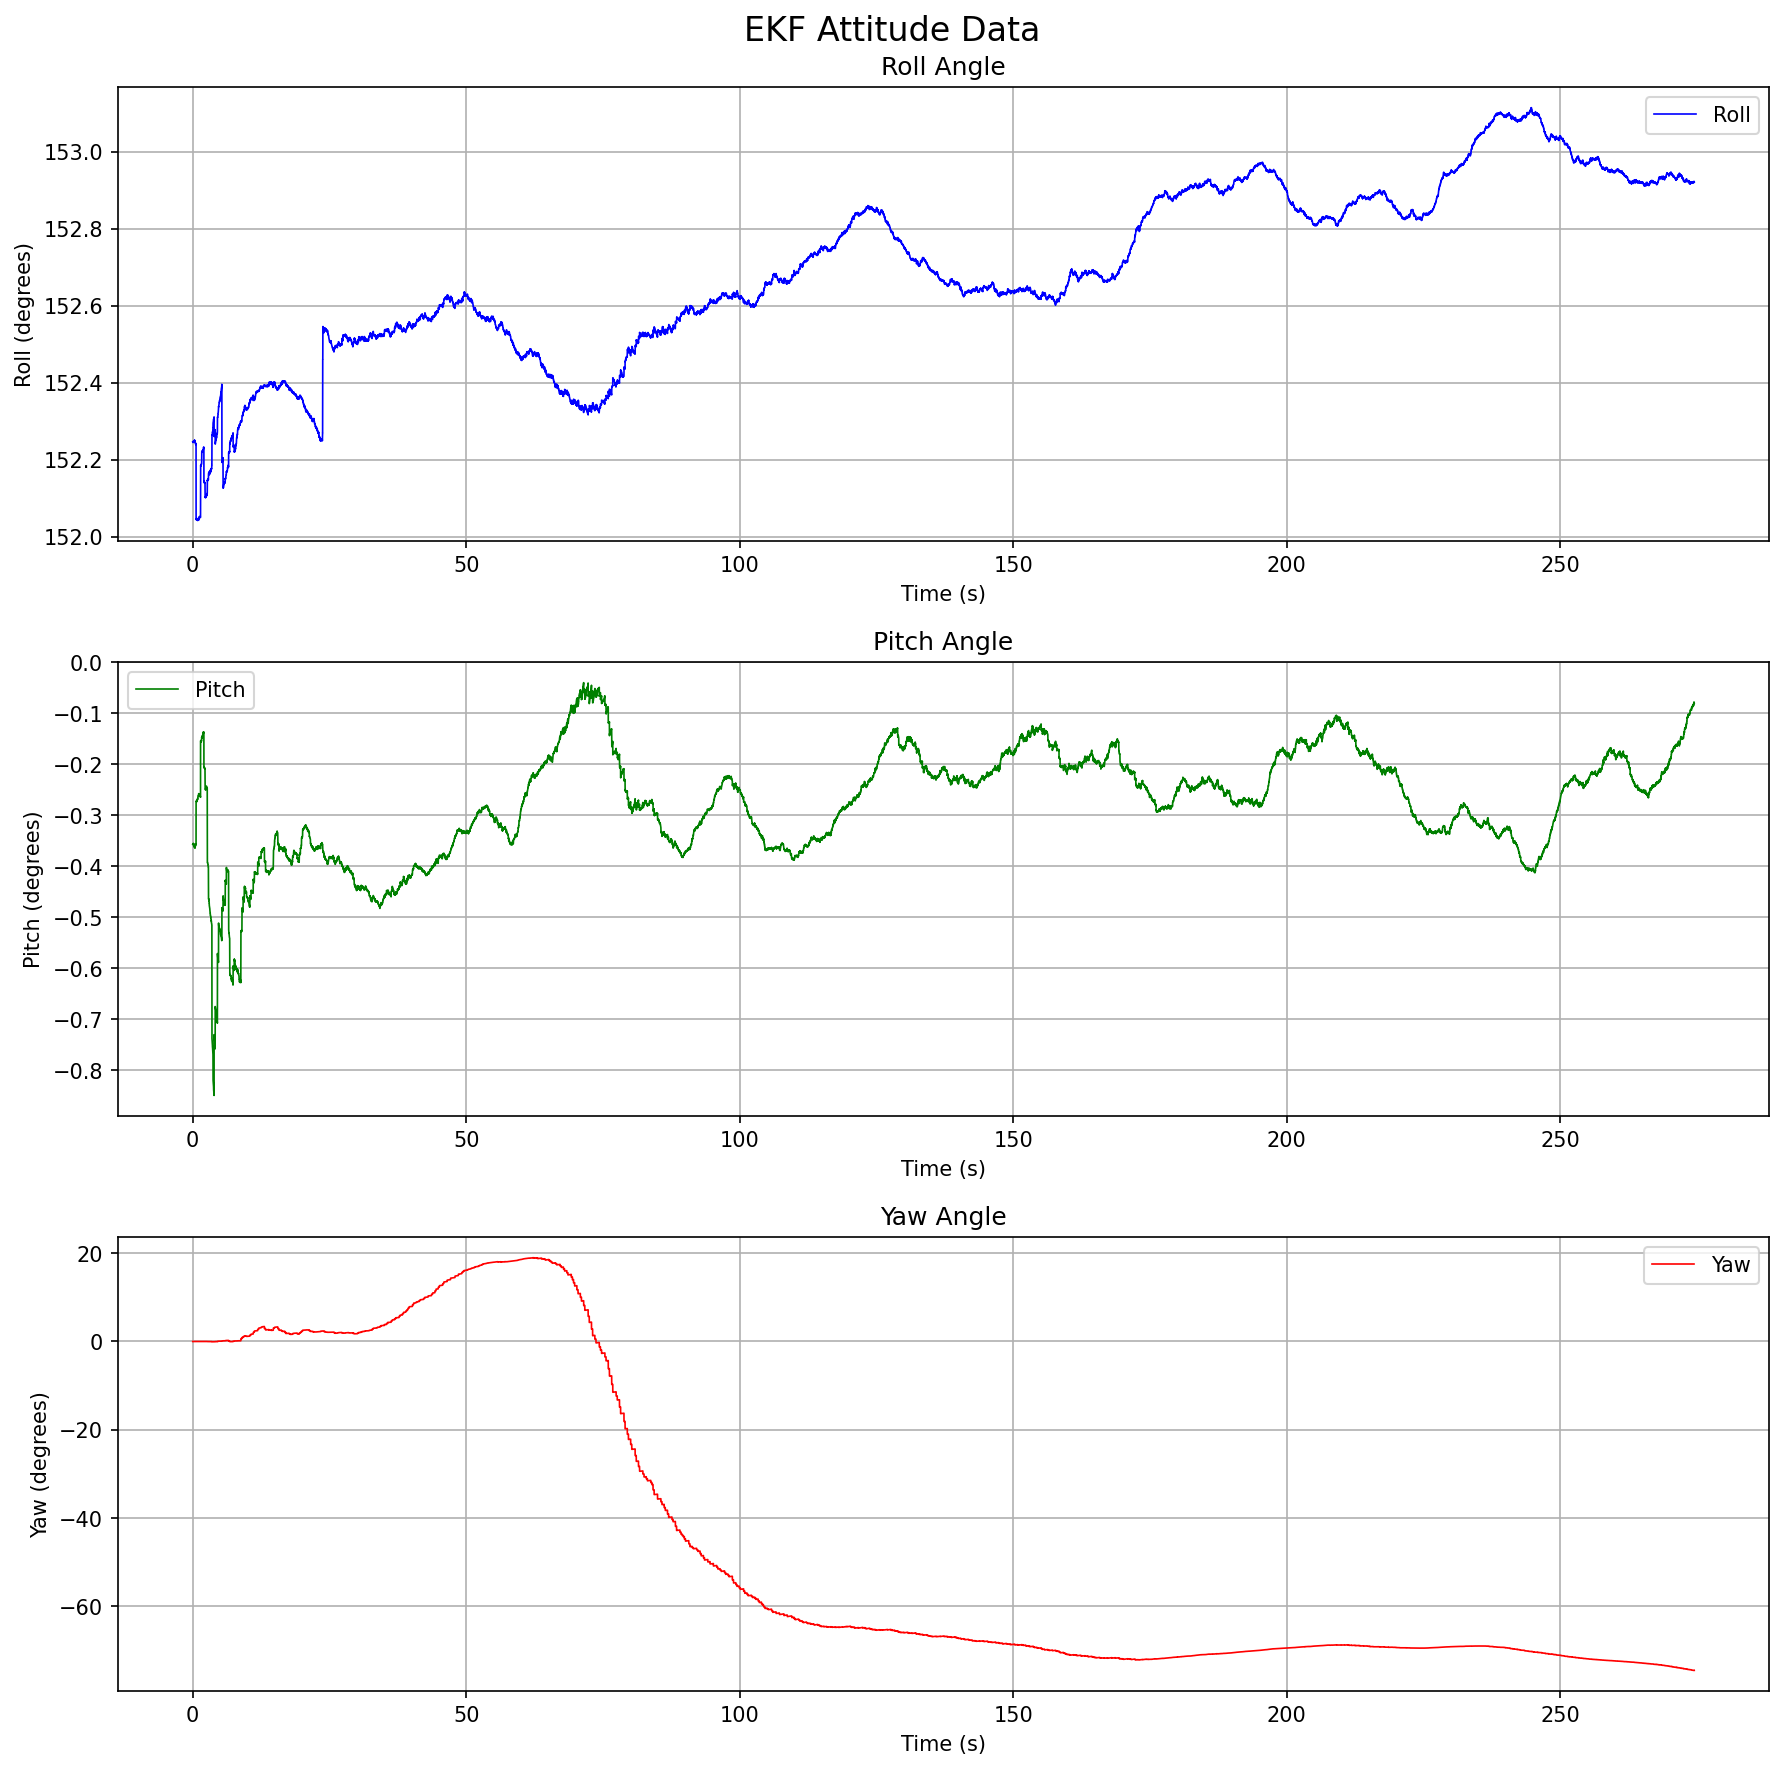
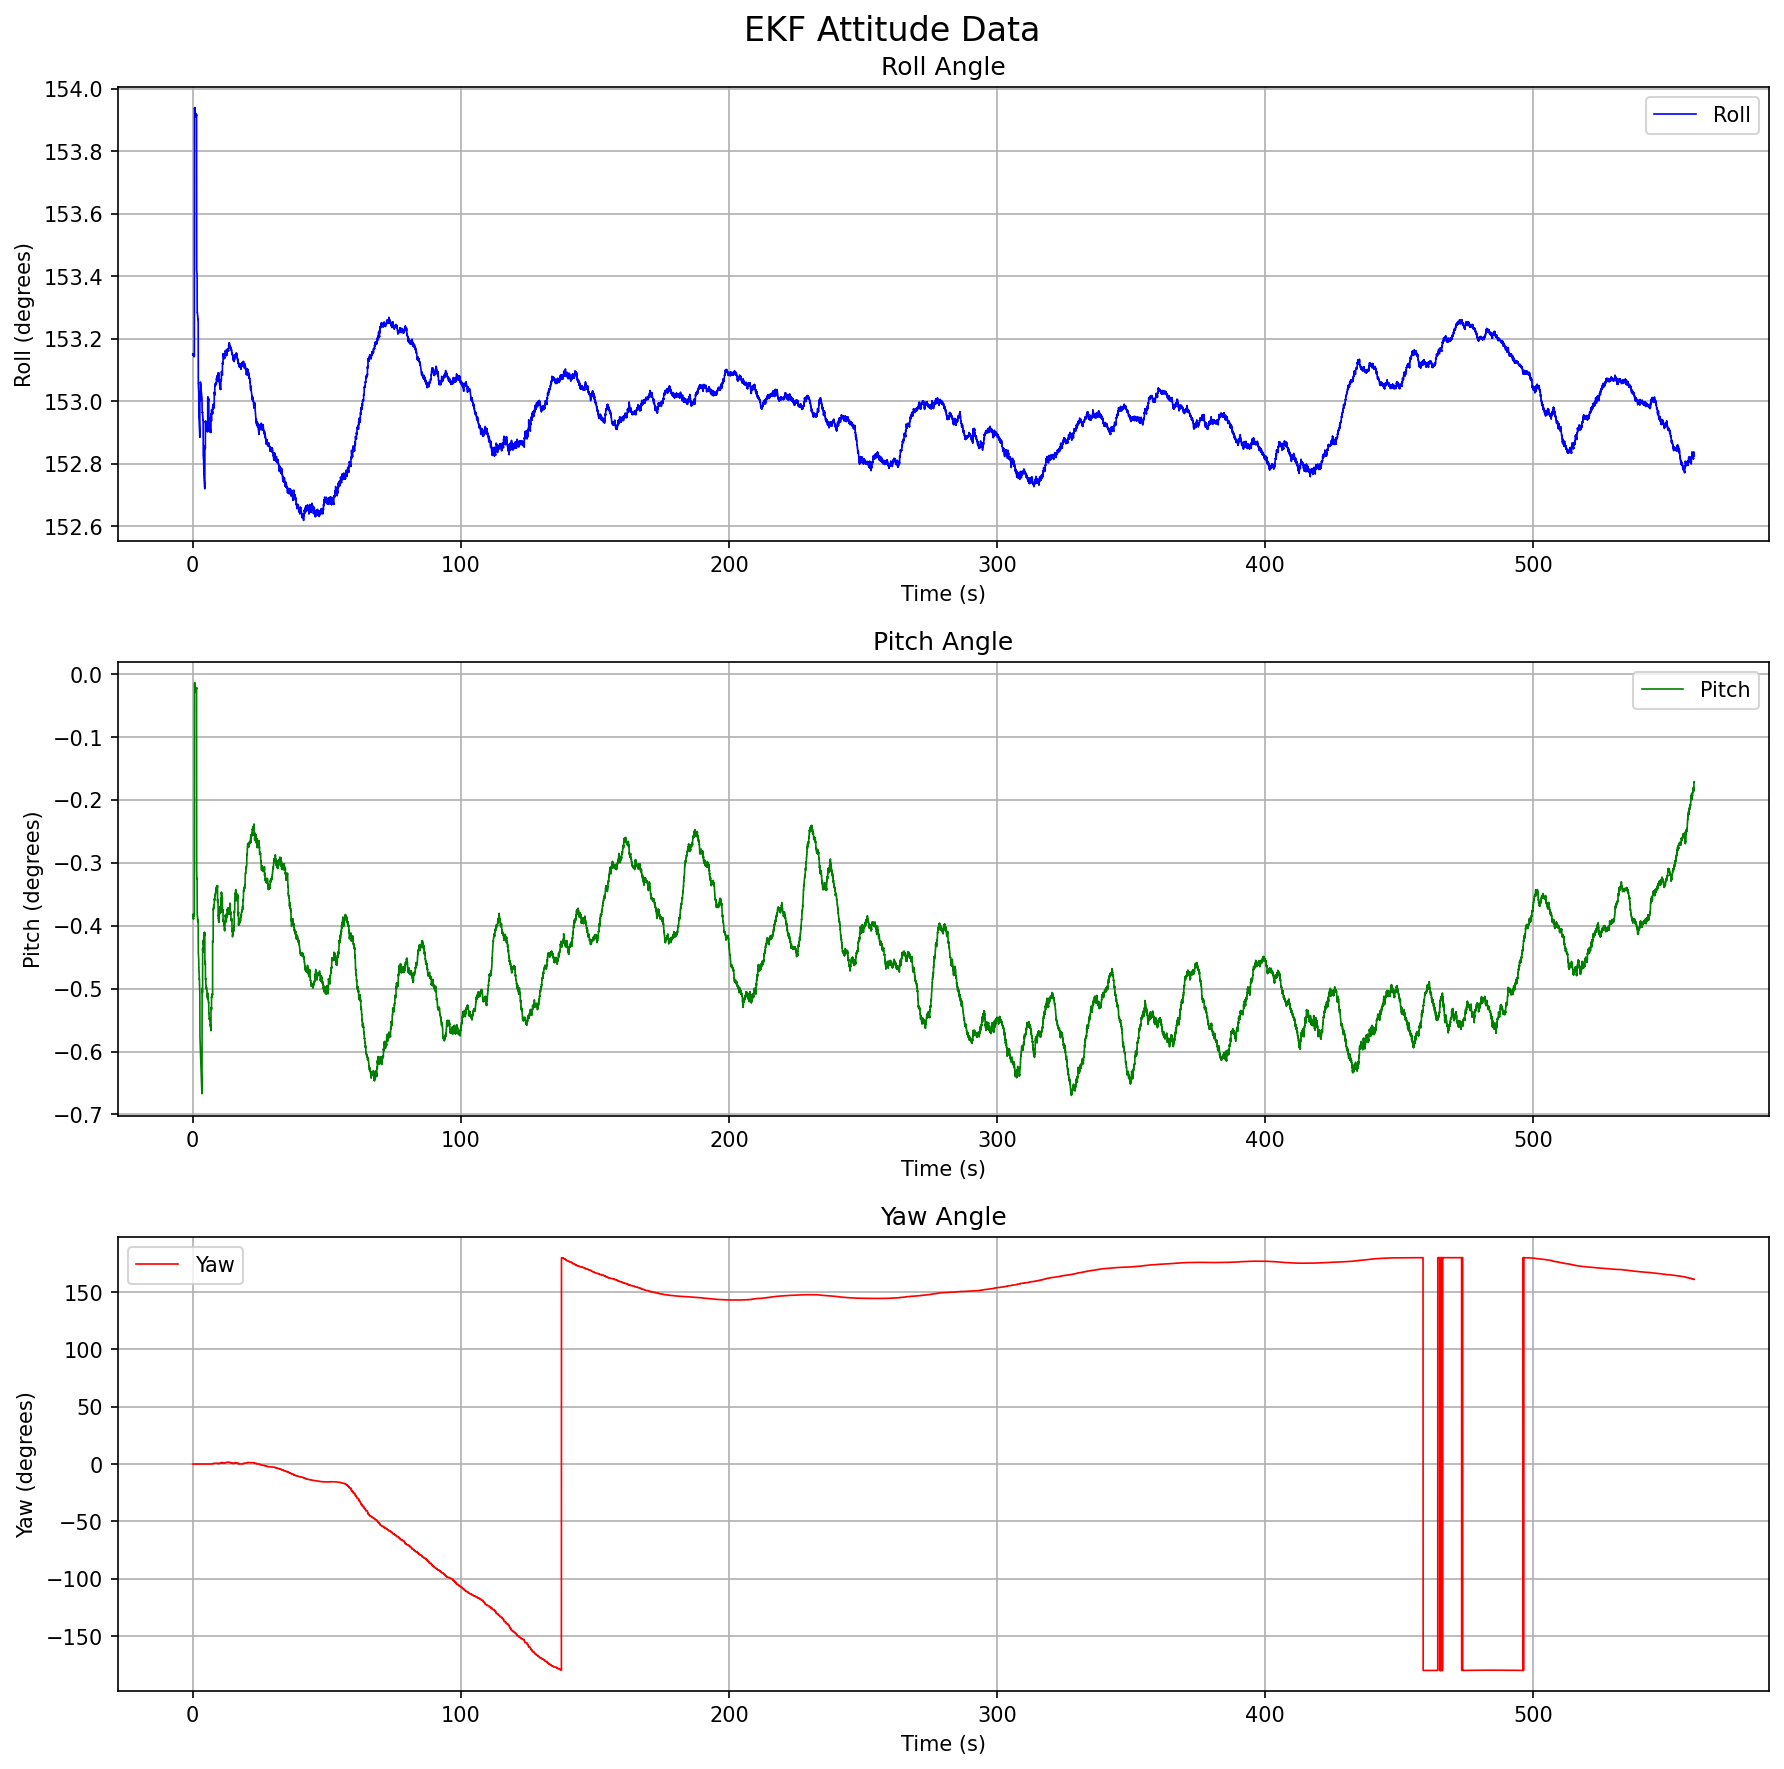
matrix exponential second order approximation stable

diff --git a/ekf/shared/eskf.cpp b/ekf/shared/eskf.cpp
@@ -219,10 +219,10 @@ void EsEkf::predict(const ImuMeasurement& imu, double dt) {
     A.block<DIM_ERROR, DIM_ERROR>(DIM_ERROR, DIM_ERROR) = F.transpose() * dt;
 
     // Matrix Exponential [Source: 211-212]
-    Eigen::Matrix<double, 2*DIM_ERROR, 2*DIM_ERROR> B = A.exp();
+    //Eigen::Matrix<double, 2*DIM_ERROR, 2*DIM_ERROR> B = A.exp();
     // for small dt, use Taylor expansion up to 2nd order !!! DOESNT WORK
-    //Eigen::Matrix<double, 2*DIM_ERROR, 2*DIM_ERROR> I30 = Eigen::Matrix<double, 2*DIM_ERROR, 2*DIM_ERROR>::Identity();
-    //Eigen::Matrix<double, 2*DIM_ERROR, 2*DIM_ERROR> B = I30 + A + 0.5 * A * A; // + O(dt^3)
+    Eigen::Matrix<double, 2*DIM_ERROR, 2*DIM_ERROR> Ivanloan = Eigen::Matrix<double, 2*DIM_ERROR, 2*DIM_ERROR>::Identity();
+    Eigen::Matrix<double, 2*DIM_ERROR, 2*DIM_ERROR> B = Ivanloan + A + 0.5 * A * A; // + O(dt^3)
 
     // Extract Phi and Qd [Source: 214]
     Eigen::Matrix<double, DIM_ERROR, DIM_ERROR> Phi = B.block<DIM_ERROR, DIM_ERROR>(DIM_ERROR, DIM_ERROR).transpose();
